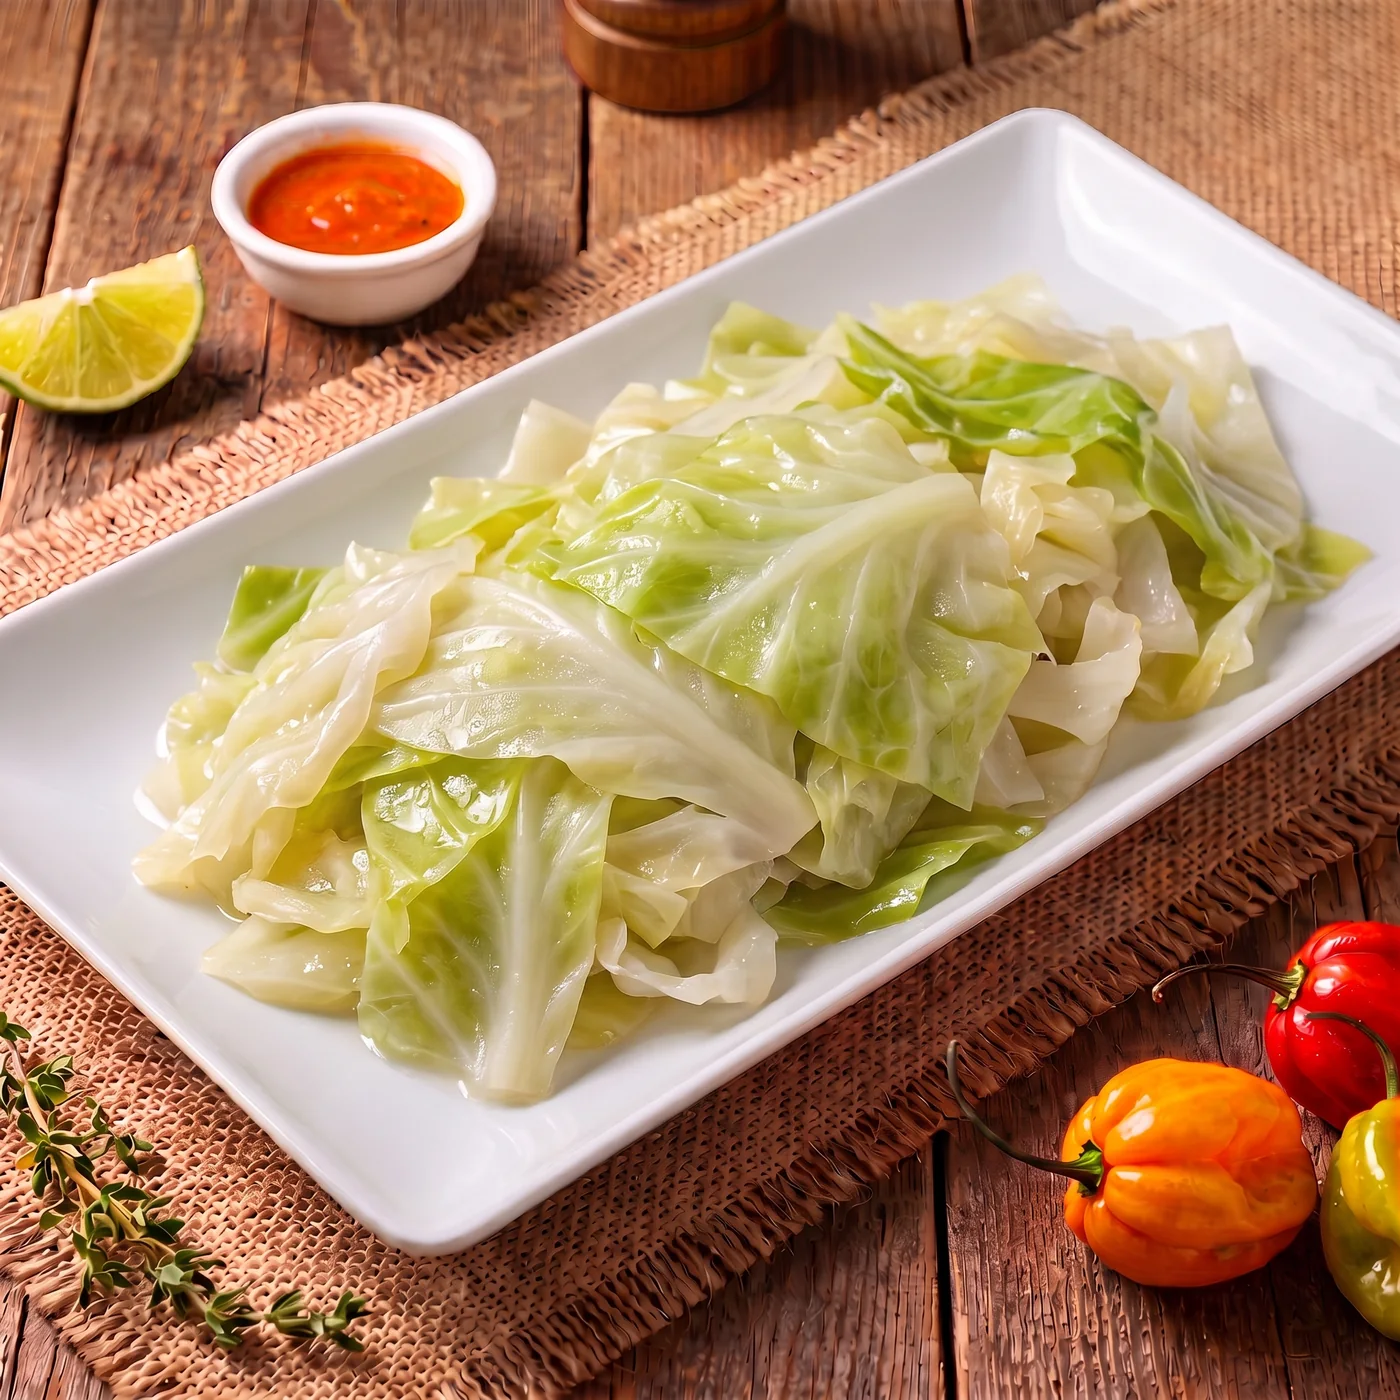
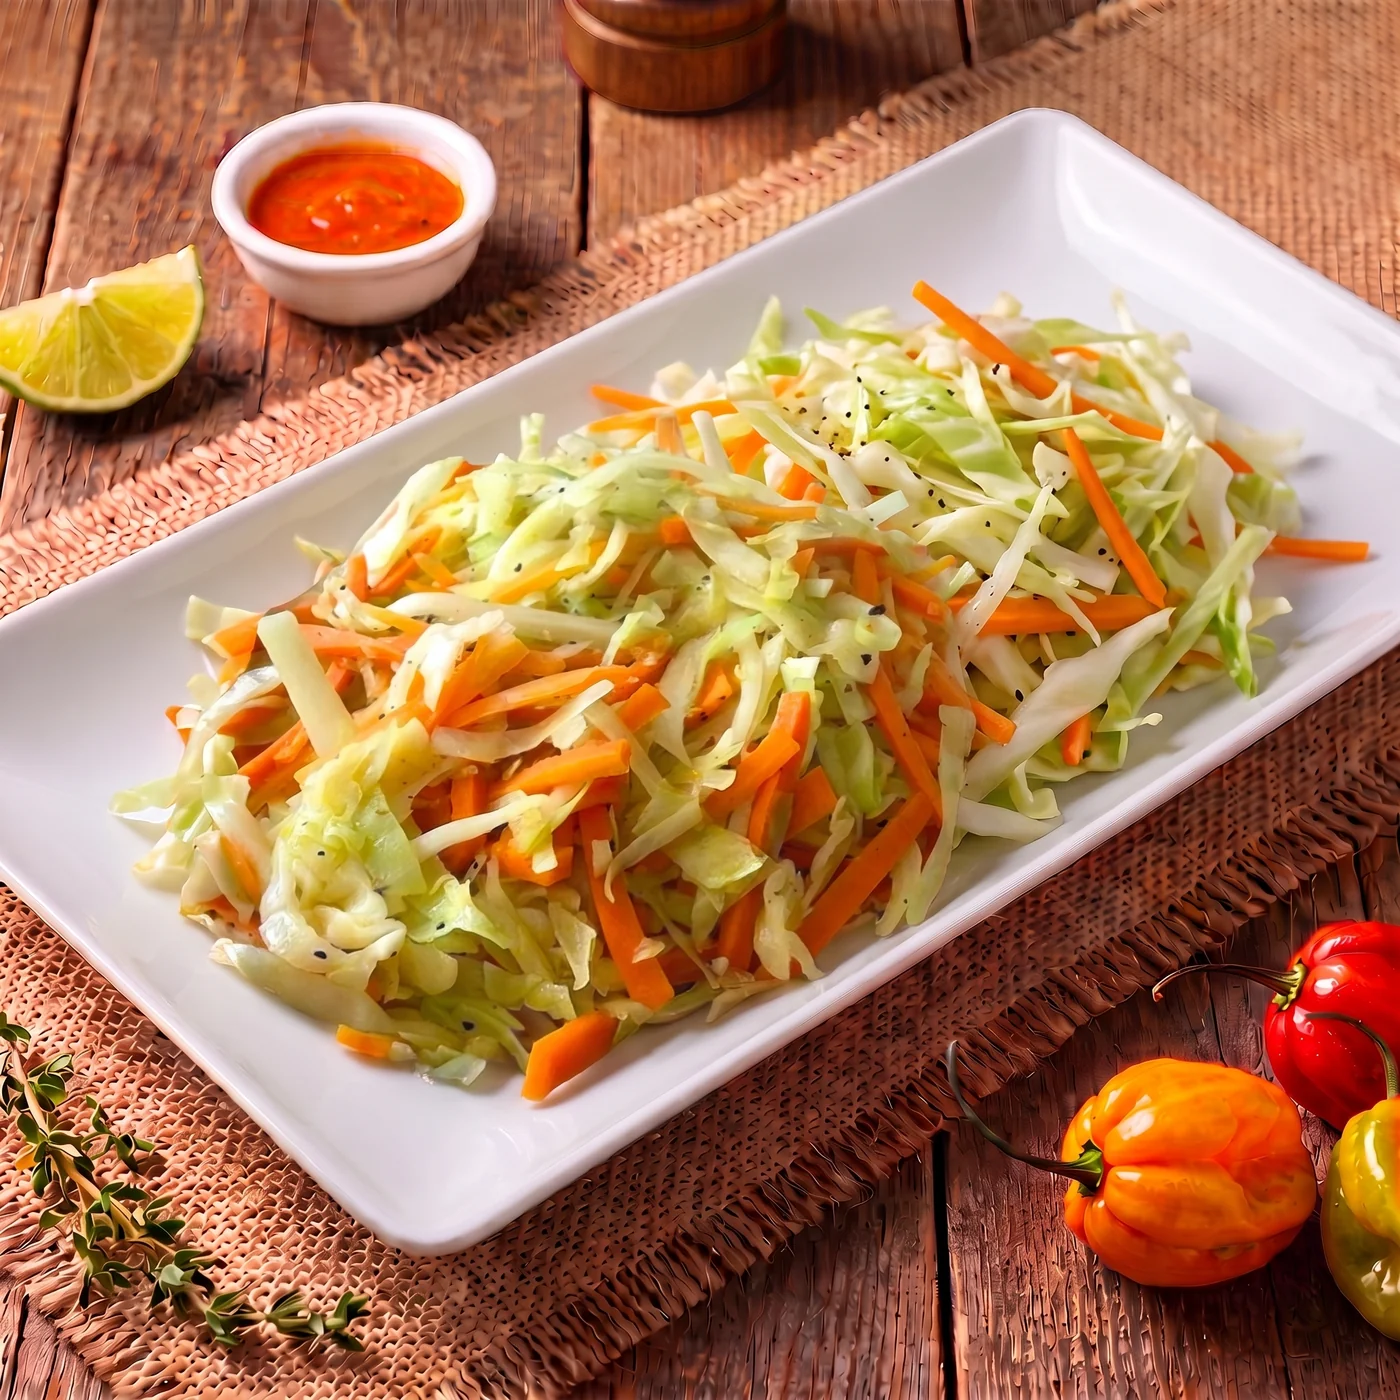
Update catering menu and order selections

diff --git a/catering/index.html b/catering/index.html
@@ -31,9 +31,18 @@
   </nav>
 </header>
 <main>
-<section class="page-hero"><div class="container"><p class="eyebrow">Catering</p><h1 class="section-title">Trays for groups, events and celebrations.</h1><p class="lead">Preorder early so the quote is fast and fair — book at least 48 hours ahead. Delivery wording and $15 larger-order fee should be confirmed by the owner.</p></div></section>
-<section class="container"><div class="grid packages"><article class="card package"><h3>Half tray</h3><div class="price">from $120</div><p>Feeds 8–10. Best for small gatherings and office lunches.</p></article><article class="card package"><h3>Full tray</h3><div class="price">from $220</div><p>Feeds 18–22. Choose mains and sides based on availability.</p></article><article class="card package featured"><h3>Build-your-spread</h3><div class="price">from $500</div><p>Deposit locks your date. We'll coordinate final menu and timing by text.</p></article></div>
-<form class="card form-card" data-catering-form><h2>Request a catering quote</h2><div class="form-grid"><div class="field"><label>Name</label><input name="name" required></div><div class="field"><label>Phone or email</label><input name="contact" required></div><div class="field"><label>Event date</label><input name="date" type="date"></div><div class="field"><label>Headcount</label><input name="headcount" inputmode="numeric"></div><div class="field wide"><label>Message</label><textarea name="message" rows="5" placeholder="Tell us the event, menu ideas and pickup/delivery question."></textarea></div></div><button class="btn btn-primary" type="submit" style="margin-top:16px">Send inquiry</button><p class="success hidden" data-catering-success>We'll reply within 24 hours. Opening your email app now as a mailto fallback.</p></form></section>
+<section class="page-hero"><div class="container"><p class="eyebrow">Catering</p><h1 class="section-title">Trays for groups, events and celebrations.</h1><p class="lead">Preorder early so the quote is fast and fair — book at least 48 hours ahead.</p></div></section>
+<section class="container catering-content">
+  <header class="tray-heading"><p class="eyebrow">Catering menu</p><h2 class="section-title">TRAY PRICING</h2><p>Half tray feeds 8–10 · full tray feeds 16–20</p></header>
+  <div class="tray-pricing" aria-label="Catering tray prices">
+    <article class="card tray-card"><h3>CHICKEN</h3><div class="tray-columns" aria-hidden="true"><span>Item</span><span>Half</span><span>Full</span></div><div class="tray-row"><span>Jerk Chicken</span><strong>$120</strong><strong>$220</strong></div><div class="tray-row"><span>Curry Chicken</span><strong>$120</strong><strong>$220</strong></div><div class="tray-row"><span>Brown Stew Chicken</span><strong>$120</strong><strong>$220</strong></div><div class="tray-row"><span>Fried Chicken</span><strong>$120</strong><strong>$220</strong></div></article>
+    <article class="card tray-card"><h3>PREMIUM</h3><div class="tray-columns" aria-hidden="true"><span>Item</span><span>Half</span><span>Full</span></div><div class="tray-row"><span>Oxtail</span><strong>$200</strong><strong>$380</strong></div><div class="tray-row"><span>Curry Goat</span><strong>$180</strong><strong>$340</strong></div><div class="tray-row"><span>Escovitch Fish</span><strong>$180</strong><strong>$340</strong></div><div class="tray-row"><span>Curry Shrimp</span><strong>$170</strong><strong>$320</strong></div></article>
+    <article class="card tray-card"><h3>RASTA PASTA</h3><div class="tray-columns" aria-hidden="true"><span>Item</span><span>Half</span><span>Full</span></div><div class="tray-row"><span>Chicken Rasta Pasta</span><strong>$140</strong><strong>$260</strong></div><div class="tray-row"><span>Shrimp Rasta Pasta</span><strong>$170</strong><strong>$320</strong></div><div class="tray-row"><span>Oxtail Rasta Pasta</span><strong>$190</strong><strong>$360</strong></div></article>
+    <article class="card tray-card"><h3>SIDES</h3><div class="tray-columns" aria-hidden="true"><span>Item</span><span>Half</span><span>Full</span></div><div class="tray-row"><span>Rice &amp; Peas</span><strong>$50</strong><strong>$95</strong></div><div class="tray-row"><span>Sweet Plantains</span><strong>$50</strong><strong>$95</strong></div><div class="tray-row"><span>Steamed Cabbage</span><strong>$50</strong><strong>$95</strong></div><div class="tray-row"><span>Festival</span><strong>$50</strong><strong>$95</strong></div></article>
+  </div>
+  <aside class="spread-banner"><div><p class="eyebrow">Custom catering</p><h2>BUILD-YOUR-SPREAD <span>— from $600</span></h2><p>3+ trays, custom menu, setup included. A deposit locks your date — we coordinate the rest by text.</p></div><a class="btn btn-gold" href="sms:+19297424202">TEXT TO PREORDER</a></aside>
+  <form class="card form-card" data-catering-form><h2>Request a catering quote</h2><div class="form-grid"><div class="field"><label>Name</label><input name="name" required></div><div class="field"><label>Phone or email</label><input name="contact" required></div><div class="field"><label>Event date</label><input name="date" type="date"></div><div class="field"><label>Headcount</label><input name="headcount" inputmode="numeric"></div><div class="field wide"><label>Message</label><textarea name="message" rows="5" placeholder="Tell us the event, menu ideas and pickup/delivery question."></textarea></div></div><button class="btn btn-primary" type="submit" style="margin-top:16px">Send inquiry</button><p class="success hidden" data-catering-success>We'll reply within 24 hours. Opening your email app now as a mailto fallback.</p></form>
+</section>
 </main><footer class="footer">
   <div class="container">
     <div><img src="/assets/brand/logo-gold.png" alt="Island Delicacy"><p>Fresh Caribbean comfort food in San Diego, cooked by preorder only. Orders close 10 AM daily.</p></div>

diff --git a/css/styles.css b/css/styles.css
@@ -20,7 +20,7 @@
 .side-option>img{width:150px;height:96px;margin:0 auto;object-fit:cover;border-radius:3px;background:#241E15}
 .side-option .side-option-check{display:flex;align-items:center;justify-content:center;gap:9px;padding:9px 0 0;min-height:0}
 .side-option input{position:absolute;inset:0;z-index:2;width:100%;height:100%;margin:0;padding:0;opacity:0;cursor:pointer;appearance:none;border:0}
-.side-option:has(input:checked){border-color:#E0A52A;outline:2px solid rgba(224,165,42,.42);box-shadow:0 0 20px rgba(224,165,42,.2);background:rgba(224,165,42,.08)}
+.side-option:has(input:checked){border:1.5px dashed #E0A52A;background:rgba(224,165,42,.12)}
 .side-option:focus-within{border-color:#F3CC63;outline:2px solid rgba(243,204,99,.42)}
 body.lightbox-open{overflow:hidden}
 .menu-lightbox{position:fixed;inset:0;z-index:1000;display:flex;flex-direction:column;align-items:center;justify-content:center;padding:24px;background:rgba(16,15,12,.94);cursor:zoom-out}
@@ -29,3 +29,6 @@ body.lightbox-open{overflow:hidden}
 .menu-lightbox p{margin:14px 0 0;color:#F4ECD9;font:600 14px 'Source Serif 4',serif;text-align:center}
 .lightbox-close{position:absolute;top:18px;right:20px;width:44px;height:44px;border:1px solid rgba(224,165,42,.5);border-radius:50%;background:#100F0C;color:#F3CC63;font-size:28px;line-height:1;cursor:pointer}
 @media(max-width:580px){.choice{min-height:108px}.plate-thumb{width:58px;height:58px;flex-basis:58px}.menu-lightbox{padding:16px}.menu-lightbox img{max-width:94vw;max-height:70vh}}
+
+/* Catering tray menu */
+.catering-content{padding-top:52px}.tray-heading{text-align:center;max-width:680px;margin:0 auto 24px}.tray-heading .section-title{margin-bottom:8px}.tray-heading>p:last-child{margin:0;color:var(--muted)}.tray-pricing{display:grid;grid-template-columns:repeat(2,minmax(0,1fr));gap:18px}.tray-card{padding:24px;min-width:0}.tray-card h3{margin:0 0 16px;color:#F3CC63;font:800 15px/1 Archivo,sans-serif;letter-spacing:.12em}.tray-columns,.tray-row{display:grid;grid-template-columns:minmax(0,1fr) 64px 64px;gap:12px;align-items:center}.tray-columns{padding:0 0 8px;color:var(--muted);font-size:10px;font-weight:800;letter-spacing:.1em;text-transform:uppercase}.tray-columns span:not(:first-child),.tray-row strong{text-align:right}.tray-row{padding:11px 0;border-top:1px solid var(--line);font-size:14px}.tray-row>span{min-width:0}.tray-row strong:first-of-type{color:#F4ECD9}.tray-row strong:last-child{color:#E0A52A}.spread-banner{display:flex;align-items:center;justify-content:space-between;gap:28px;margin:22px 0 28px;padding:28px;background:var(--green);border:1px solid rgba(243,204,99,.28);border-radius:3px;color:#F4ECD9}.spread-banner .eyebrow{color:#F3CC63}.spread-banner h2{margin:4px 0 8px;font:800 clamp(22px,3vw,34px)/1.08 'Source Serif 4',serif}.spread-banner h2 span{color:#F3CC63}.spread-banner p:last-child{margin:0;max-width:720px}.spread-banner .btn{flex:0 0 auto;white-space:nowrap}@media(max-width:760px){.tray-pricing{grid-template-columns:1fr}.spread-banner{align-items:flex-start;flex-direction:column}.spread-banner .btn{width:100%}}@media(max-width:420px){.catering-content{padding-top:38px}.tray-card{padding:18px}.tray-columns,.tray-row{grid-template-columns:minmax(0,1fr) 56px 56px;gap:8px}.tray-row{font-size:13px}.spread-banner{padding:22px}}

diff --git a/scripts/verify_clean_urls.py b/scripts/verify_clean_urls.py
@@ -120,12 +120,15 @@ def verify_order_design() -> list[str]:
         (".choice-title span:first-child{min-width:0;overflow-wrap:anywhere", "long meal names must wrap inside their cards"),
         (".cap-chip{", "daily-cap chip style missing"),
         (".side-option input{position:absolute;inset:0;z-index:2;width:100%;height:100%;margin:0;padding:0;opacity:0", "side checkboxes must remain accessible full-card controls while visually hidden"),
-        (".side-option:has(input:checked){border-color:#E0A52A", "selected side cards must glow instead of showing a checkbox"),
+        (".side-option:has(input:checked){border:1.5px dashed #E0A52A;background:rgba(224,165,42,.12)}", "selected side cards must match the quiet selected extra-meat chip style"),
     ):
         if required not in css:
             errors.append(f"styles.css design requirement missing ({why}): {required}")
     if re.search(r"\.side-list\{grid-template-columns", css):
         errors.append("styles.css still forces side-list grid columns (stretched cards)")
+    selected_side_rule = re.search(r"\.side-option:has\(input:checked\)\{([^}]*)\}", css)
+    if selected_side_rule and any(token in selected_side_rule.group(1) for token in ("box-shadow", "outline")):
+        errors.append("selected side cards must not use a glow or outline")
     if ".order-grid,.faq-grid{grid-template-columns:1fr}" not in css:
         errors.append("styles.css missing single-column plate grid at mobile breakpoint")
 
@@ -138,6 +141,34 @@ def verify_order_design() -> list[str]:
     for name, text in (("main.js", main_js), ("menu.js", menu_js), ("order/index.html", order_html), ("styles.css", css)):
         if re.search(r"\bLEFT\b", text):
             errors.append(f"{name} claims live inventory ('LEFT' wording is prohibited)")
+    return errors
+
+
+def verify_catering() -> list[str]:
+    """Approved tray pricing and catering copy must be present and current."""
+    errors: list[str] = []
+    html = (ROOT / "catering" / "index.html").read_text(encoding="utf-8")
+    css = (ROOT / "css" / "styles.css").read_text(encoding="utf-8")
+    for required in (
+        "TRAY PRICING",
+        "Half tray feeds 8–10 · full tray feeds 16–20",
+        "Jerk Chicken", "$120", "$220",
+        "Oxtail", "$200", "$380",
+        "Chicken Rasta Pasta", "$140", "$260",
+        "Steamed Cabbage", "$50", "$95",
+        "BUILD-YOUR-SPREAD", "from $600",
+        "3+ trays, custom menu, setup included.",
+        "sms:+19297424202",
+        "Preorder early so the quote is fast and fair — book at least 48 hours ahead.",
+    ):
+        if required not in html:
+            errors.append(f"catering/index.html missing approved content: {required}")
+    for forbidden in ("from $500", "$15 larger-order fee", "Delivery wording"):
+        if forbidden in html:
+            errors.append(f"catering/index.html still contains obsolete copy: {forbidden}")
+    for required in (".tray-pricing{", ".tray-card{", ".spread-banner{"):
+        if required not in css:
+            errors.append(f"styles.css missing catering layout hook: {required}")
     return errors
 
 
@@ -171,7 +202,7 @@ def verify_http() -> list[str]:
 
 
 def main() -> int:
-    errors = verify_files() + verify_order_design() + verify_http()
+    errors = verify_files() + verify_order_design() + verify_catering() + verify_http()
     if errors:
         print(f"FAIL: {len(errors)} clean-route issue(s)")
         for error in errors:
